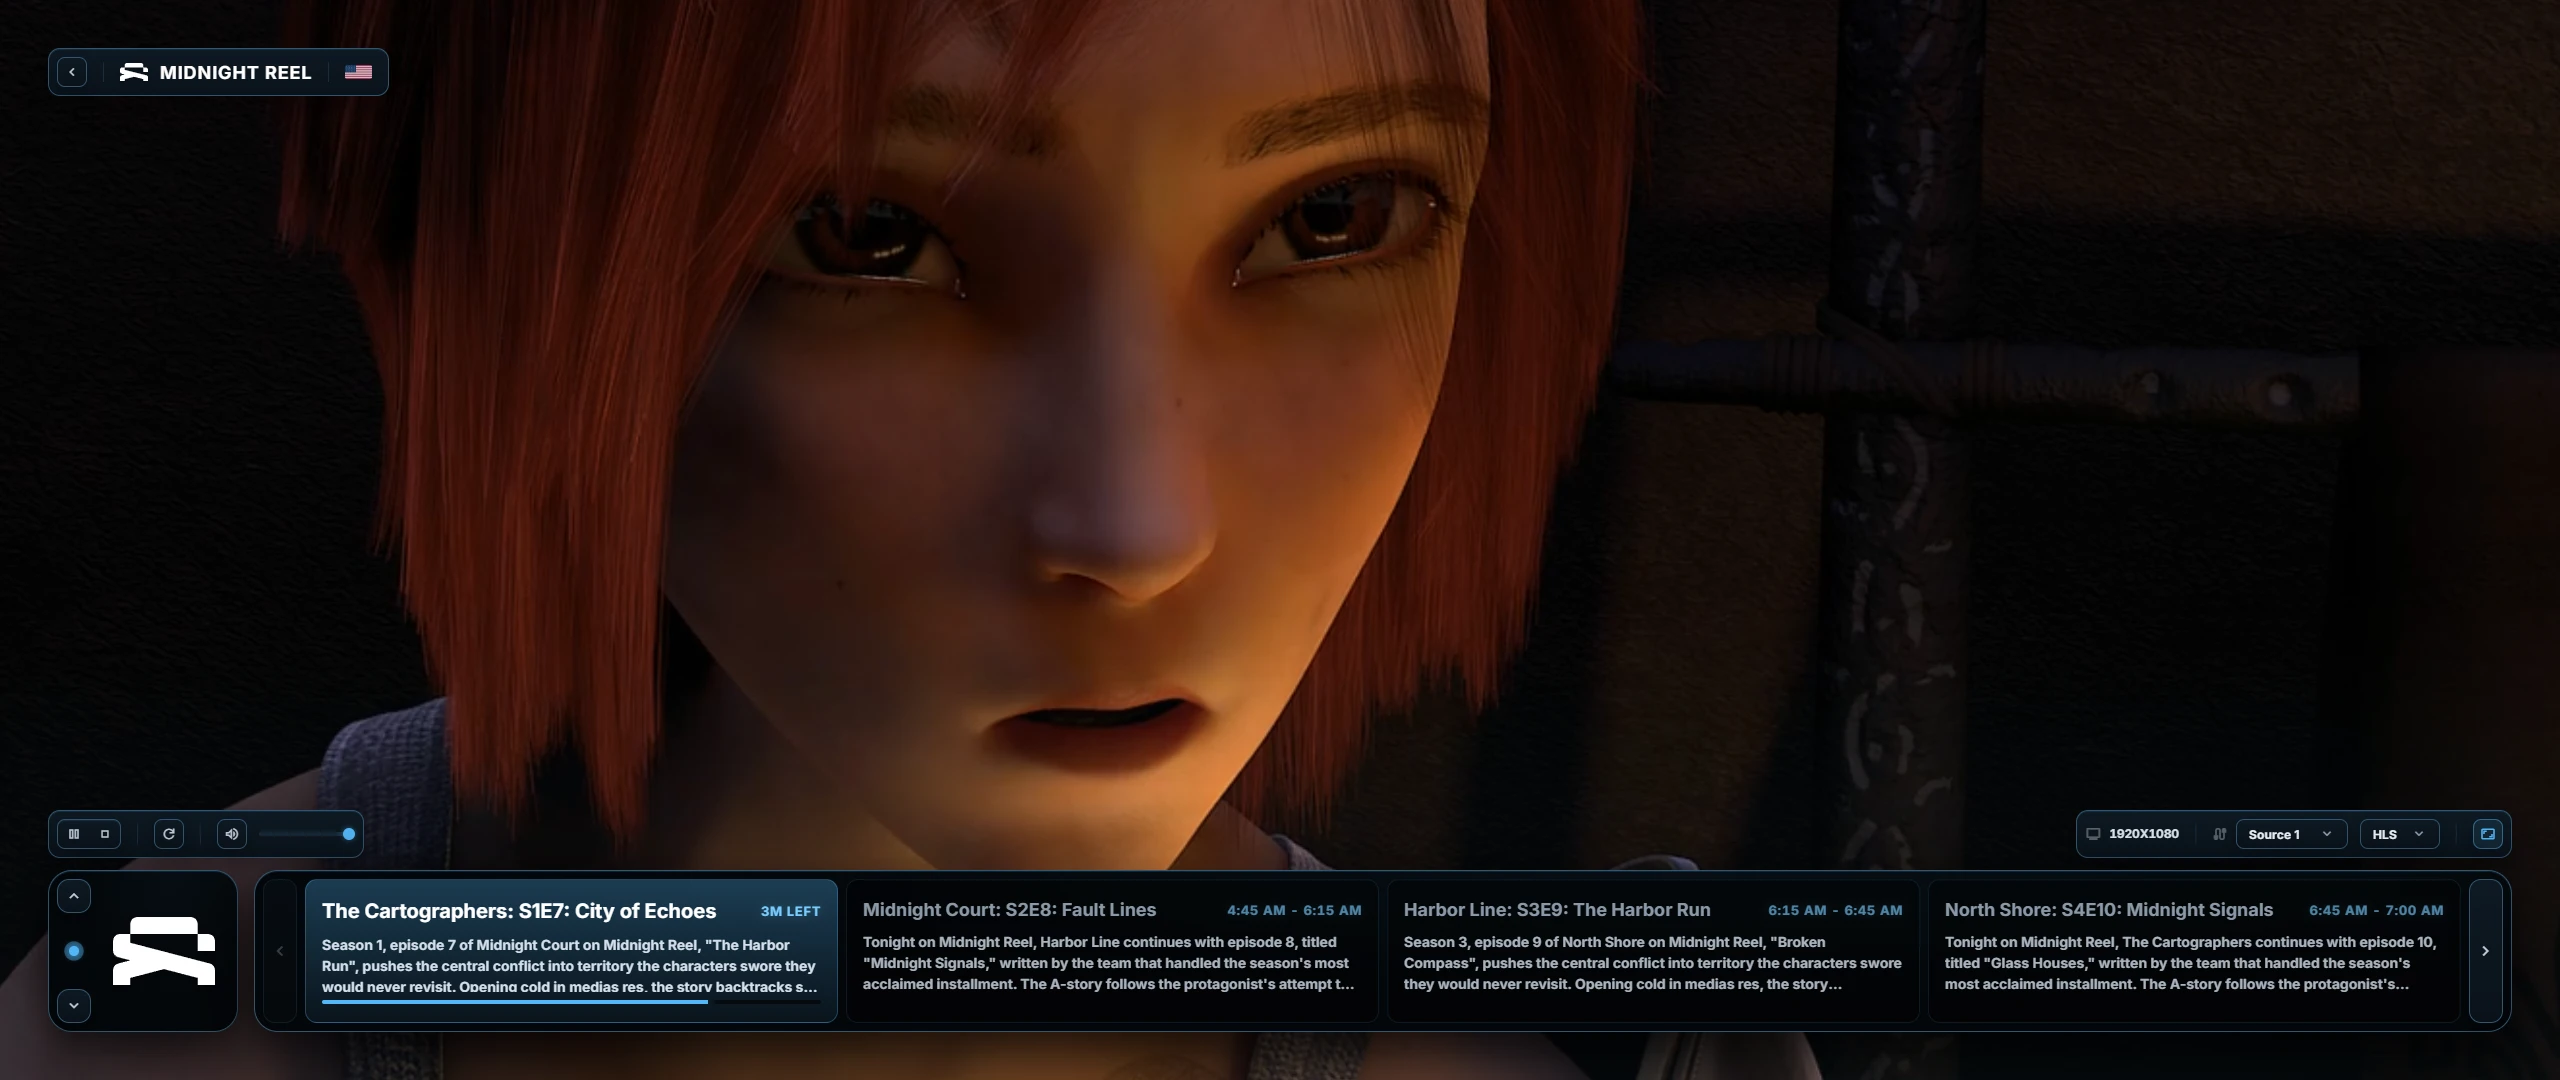
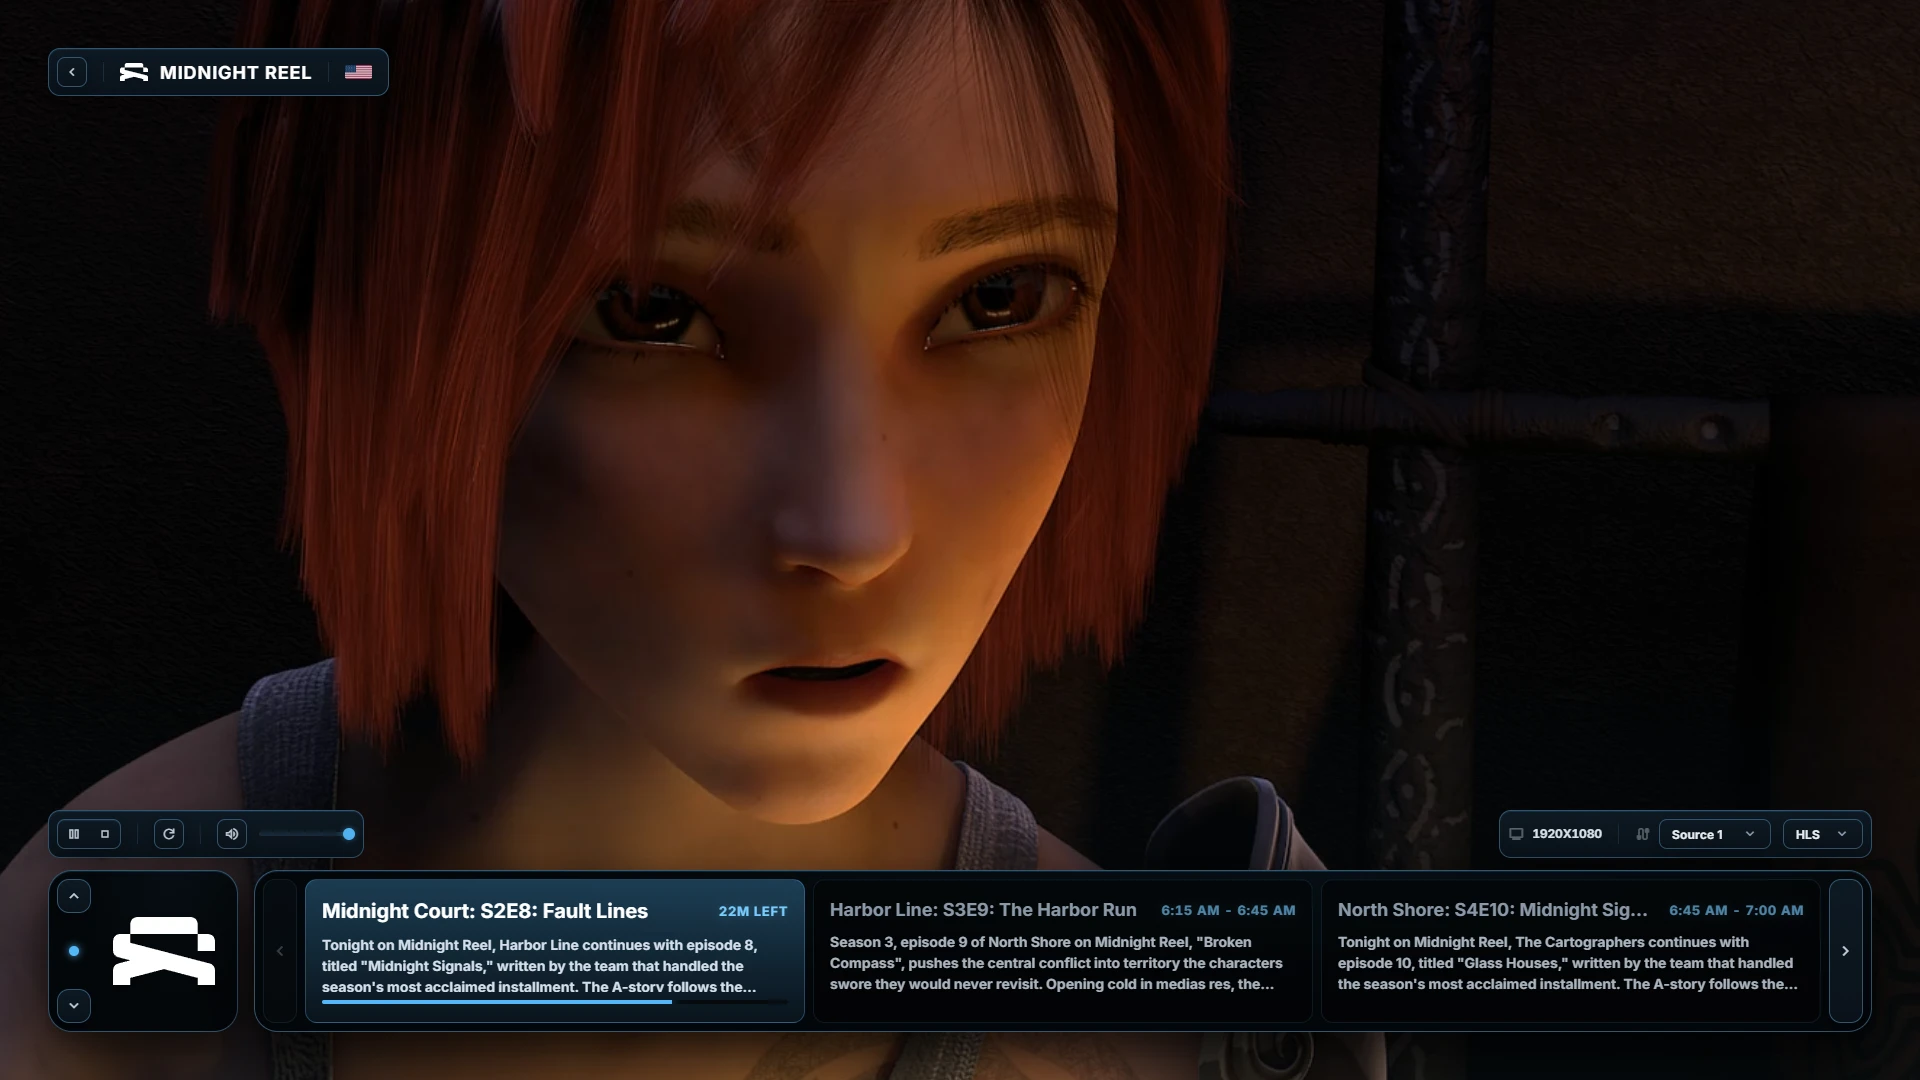
Replace landing overview with three current app gallery screenshots

diff --git a/README.md b/README.md
@@ -6,7 +6,7 @@ A desktop IPTV player for Windows. Browse your channels, see what's on, and watc
 
 Current release: **1.4.8**. In public preview; connect your own Xtream-compatible provider to get started.
 
-[![Frostbolt overview: Live Television — Beyond the Playlist](assets/frostbolt-overview-1920x1080.png)](https://frostbolt.xyz/)
+![Frostbolt Player main guide with demo playback](assets/main-guide.webp)
 
 ## Features
 
@@ -19,7 +19,7 @@ Current release: **1.4.8**. In public preview; connect your own Xtream-compatibl
 - **Two dark themes.** Frostbolt and Regrowth.
 - **Save your setup.** Export and restore your library with blueprints.
 
-![Frostbolt Player 1.4.7 showing the programme guide and demo playback](assets/main-guide.webp)
+![Frostbolt Player 1.4.7 showing the programme guide and demo playback](assets/program-guide.webp)
 
 ## Get started
 
@@ -39,5 +39,5 @@ Frostbolt is a media player. It does not supply channels, playlists or subscript
 
 Screenshots show fictional demo channels in Frostbolt Player 1.4.7. Film stills: *Sintel*, © copyright [Blender Foundation](https://durian.blender.org/), used under [CC BY 3.0](https://creativecommons.org/licenses/by/3.0/).
 
-Overview captured at 1920 × 1080.
+All three app screenshots are 1920 × 1080 and use the same mock-provider captures shown on the public website.
 
